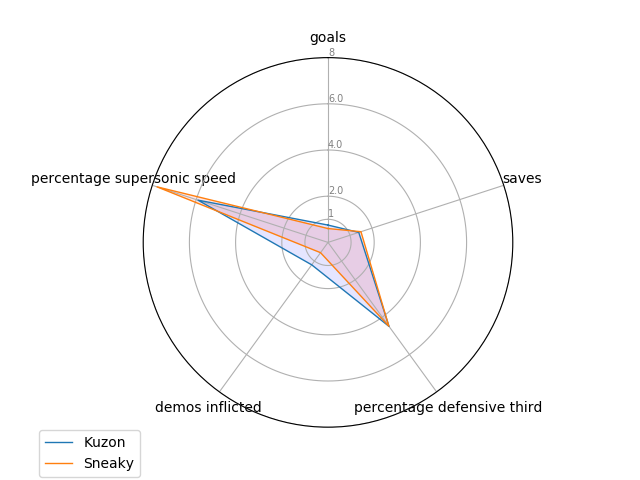
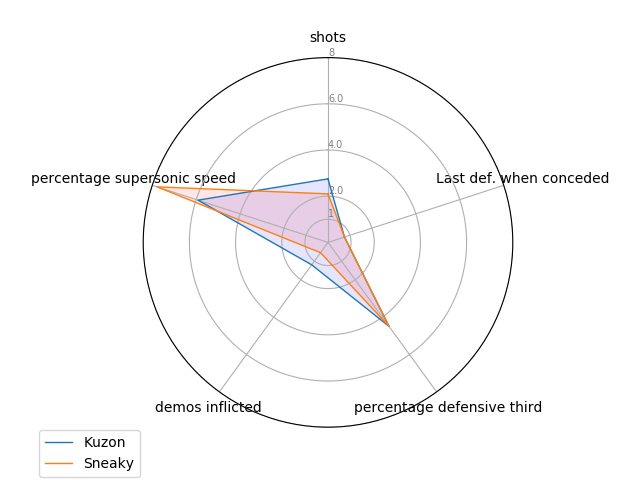
added test from users and finsihed average user

diff --git a/app.py b/app.py
@@ -74,7 +74,7 @@ def create_plot2():
     N = 40
     x = np.linspace(0, 1, N)
     y = np.random.randn(N)
-   
+
     df_win = pd.concat(allmatches_CK_wins)
     sneaky1 = df_win[df_win['player name'] == 'Sneakyb4stard']
     kuzon1 = df_win[df_win['player name'] == 'Kuzon']
@@ -84,13 +84,13 @@ def create_plot2():
     kuzon2 = df_lose[df_lose['player name'] == 'Kuzon']
     #sneaky1 = pd.concat(allmatches_CK_wins['player name'].str.contains('Sneakyb4stard'))
     #sneaky2 = pd.concat(allmatches_CK_losses['player name'].str.contains('Sneakyb4stard'))
-    
+
     df = pd.concat(allmatches_CK)
     #print('testmean' + str(sneaky1['score'].mean()), file=sys.stderr)
     print('sneaky1' + str(sneaky2['goals']), file=sys.stderr)
     #for i in range(0, numberofmatches):
         #print('testoutput' + str(allmatches_CK_wins[i]), file=sys.stderr)
-    
+
     sneaky = df[df['player name'] == 'Sneakyb4stard']
     kuzon = df[df['player name'] == 'Kuzon']
 
@@ -98,25 +98,25 @@ def create_plot2():
     #kuzonlastgame = pd.concat(allmatches_CK[0])
     #sneaky = sneaky1
     #kuzon = sneaky2
-    
+
     #go.Bar(name='SF Zoo', x=animals, y=[20, 14, 23]),
     #go.Bar(name='LA Zoo', x=animals, y=[12, 18, 29])
     #df = pd.DataFrame(allmatches_CK_wins[0])
-    
+
     var1name = 'percentage supersonic speed'
     var2name = 'percentage boost speed'
     var3name = 'percentage slow speed'
 
     if "sneakyandkuzon" in request.form:
         xdata = ['percentage supersonic speed', 'percentage boost speed', 'percentage slow speed']
-        
+
         fig1 = go.Figure(data = [
         go.Bar(
             name = "Sneaky",
             x = [var1name, var2name, var3name],
             #y=[18, 15, 20]
             #y=[int(sneaky['percentage supersonic speed'].values), int(sneaky['percentage boost speed'].values), int(sneaky['percentage slow speed'].values)]
-            y = [int(sneaky[var1name].mean()), int(sneaky[var2name].mean()), int(sneaky[var3name].mean())]      
+            y = [int(sneaky[var1name].mean()), int(sneaky[var2name].mean()), int(sneaky[var3name].mean())]
         ),
         go.Bar(
             name = "Kuzon",
@@ -127,7 +127,7 @@ def create_plot2():
             )
         ])
         fig1.update_layout(barmode='group')
-        graphJSON = json.dumps(fig1, cls=plotly.utils.PlotlyJSONEncoder)   
+        graphJSON = json.dumps(fig1, cls=plotly.utils.PlotlyJSONEncoder)
 
         xdata2 = ['percentage defensive third', 'percentage neutral third', 'percentage offensive third']
         fig2 = go.Figure(data = [
@@ -139,8 +139,8 @@ def create_plot2():
             #y = [int(sneaky['percentage supersonic speed'].values), 15, 20]
             #x=allmatches_CK_wins[0]['player name', 'percentage boost speed'], # assign x as the dataframe column 'x'
             #x = xdata,
-            
-            
+
+
         ),
         go.Bar(
             name = "kuzon",
@@ -150,7 +150,7 @@ def create_plot2():
             )
         ])
         fig2.update_layout(barmode='group')
-        graphJSON2 = json.dumps(fig2, cls=plotly.utils.PlotlyJSONEncoder)   
+        graphJSON2 = json.dumps(fig2, cls=plotly.utils.PlotlyJSONEncoder)
 
         xdata3 = ['percentage on ground', 'percentage low in air', 'percentage high in air']
         fig3 = go.Figure(data = [
@@ -162,8 +162,8 @@ def create_plot2():
             #y = [int(sneaky['percentage supersonic speed'].values), 15, 20]
             #x=allmatches_CK_wins[0]['player name', 'percentage boost speed'], # assign x as the dataframe column 'x'
             #x = xdata,
-            
-            
+
+
         ),
         go.Bar(
             name = "kuzon",
@@ -173,10 +173,10 @@ def create_plot2():
             )
         ])
         fig3.update_layout(barmode='group')
-        graphJSON3 = json.dumps(fig3, cls=plotly.utils.PlotlyJSONEncoder)   
-        
+        graphJSON3 = json.dumps(fig3, cls=plotly.utils.PlotlyJSONEncoder)
+
         return render_template('index_C.html', plot1=graphJSON, plot2=graphJSON2, plot3=graphJSON3)
-        #return graphJSON 
+        #return graphJSON
     elif "sneakywinsandlosses" in request.form:
         xdata = ['percentage supersonic speed', 'percentage boost speed', 'percentage slow speed']
 
@@ -186,7 +186,7 @@ def create_plot2():
             x = [var1name, var2name, var3name],
             #y=[18, 15, 20]
             #y=[int(sneaky['percentage supersonic speed'].values), int(sneaky['percentage boost speed'].values), int(sneaky['percentage slow speed'].values)]
-            y = [int(sneaky1[var1name].mean()), int(sneaky1[var2name].mean()), int(sneaky1[var3name].mean())]      
+            y = [int(sneaky1[var1name].mean()), int(sneaky1[var2name].mean()), int(sneaky1[var3name].mean())]
         ),
         go.Bar(
             name = "Losses",
@@ -197,7 +197,7 @@ def create_plot2():
             )
         ])
         fig1.update_layout(barmode='group')
-        graphJSON = json.dumps(fig1, cls=plotly.utils.PlotlyJSONEncoder)   
+        graphJSON = json.dumps(fig1, cls=plotly.utils.PlotlyJSONEncoder)
 
         #xdata2 = ['percentage defensive third', 'percentage neutral third', 'percentage offensive third']
         var1name = 'percentage defensive third'
@@ -209,7 +209,7 @@ def create_plot2():
             x = [var1name, var2name, var3name],
             #y=[18, 15, 20]
             #y=[int(sneaky['percentage supersonic speed'].values), int(sneaky['percentage boost speed'].values), int(sneaky['percentage slow speed'].values)]
-            y = [int(sneaky1[var1name].mean()), int(sneaky1[var2name].mean()), int(sneaky1[var3name].mean())]      
+            y = [int(sneaky1[var1name].mean()), int(sneaky1[var2name].mean()), int(sneaky1[var3name].mean())]
         ),
         go.Bar(
             name = "Losses",
@@ -220,7 +220,7 @@ def create_plot2():
             )
         ])
         fig2.update_layout(barmode='group')
-        graphJSON2 = json.dumps(fig2, cls=plotly.utils.PlotlyJSONEncoder)   
+        graphJSON2 = json.dumps(fig2, cls=plotly.utils.PlotlyJSONEncoder)
 
         xdata3 = ['percentage on ground', 'percentage low in air', 'percentage high in air']
         var1name = 'percentage on ground'
@@ -232,7 +232,7 @@ def create_plot2():
             x = [var1name, var2name, var3name],
             #y=[18, 15, 20]
             #y=[int(sneaky['percentage supersonic speed'].values), int(sneaky['percentage boost speed'].values), int(sneaky['percentage slow speed'].values)]
-            y = [int(sneaky1[var1name].mean()), int(sneaky1[var2name].mean()), int(sneaky1[var3name].mean())]      
+            y = [int(sneaky1[var1name].mean()), int(sneaky1[var2name].mean()), int(sneaky1[var3name].mean())]
         ),
         go.Bar(
             name = "Losses",
@@ -243,8 +243,8 @@ def create_plot2():
             )
         ])
         fig3.update_layout(barmode='group')
-        graphJSON3 = json.dumps(fig3, cls=plotly.utils.PlotlyJSONEncoder)   
-        
+        graphJSON3 = json.dumps(fig3, cls=plotly.utils.PlotlyJSONEncoder)
+
         return render_template('index_C.html', plot1=graphJSON, plot2=graphJSON2, plot3=graphJSON3)
     elif "kuzonwinsandlosses" in request.form:
         xdata = ['percentage supersonic speed', 'percentage boost speed', 'percentage slow speed']
@@ -255,7 +255,7 @@ def create_plot2():
             x = [var1name, var2name, var3name],
             #y=[18, 15, 20]
             #y=[int(sneaky['percentage supersonic speed'].values), int(sneaky['percentage boost speed'].values), int(sneaky['percentage slow speed'].values)]
-            y = [int(kuzon1[var1name].mean()), int(kuzon1[var2name].mean()), int(kuzon1[var3name].mean())]      
+            y = [int(kuzon1[var1name].mean()), int(kuzon1[var2name].mean()), int(kuzon1[var3name].mean())]
         ),
         go.Bar(
             name = "Losses",
@@ -266,7 +266,7 @@ def create_plot2():
             )
         ])
         fig1.update_layout(barmode='group')
-        graphJSON = json.dumps(fig1, cls=plotly.utils.PlotlyJSONEncoder)   
+        graphJSON = json.dumps(fig1, cls=plotly.utils.PlotlyJSONEncoder)
 
         #xdata2 = ['percentage defensive third', 'percentage neutral third', 'percentage offensive third']
         var1name = 'percentage defensive third'
@@ -278,7 +278,7 @@ def create_plot2():
             x = [var1name, var2name, var3name],
             #y=[18, 15, 20]
             #y=[int(sneaky['percentage supersonic speed'].values), int(sneaky['percentage boost speed'].values), int(sneaky['percentage slow speed'].values)]
-            y = [int(kuzon1[var1name].mean()), int(kuzon1[var2name].mean()), int(kuzon1[var3name].mean())]      
+            y = [int(kuzon1[var1name].mean()), int(kuzon1[var2name].mean()), int(kuzon1[var3name].mean())]
         ),
         go.Bar(
             name = "Losses",
@@ -289,7 +289,7 @@ def create_plot2():
             )
         ])
         fig2.update_layout(barmode='group')
-        graphJSON2 = json.dumps(fig2, cls=plotly.utils.PlotlyJSONEncoder)   
+        graphJSON2 = json.dumps(fig2, cls=plotly.utils.PlotlyJSONEncoder)
 
         xdata3 = ['percentage on ground', 'percentage low in air', 'percentage high in air']
         var1name = 'percentage on ground'
@@ -301,7 +301,7 @@ def create_plot2():
             x = [var1name, var2name, var3name],
             #y=[18, 15, 20]
             #y=[int(sneaky['percentage supersonic speed'].values), int(sneaky['percentage boost speed'].values), int(sneaky['percentage slow speed'].values)]
-            y = [int(kuzon1[var1name].mean()), int(kuzon1[var2name].mean()), int(kuzon1[var3name].mean())]      
+            y = [int(kuzon1[var1name].mean()), int(kuzon1[var2name].mean()), int(kuzon1[var3name].mean())]
         ),
         go.Bar(
             name = "Losses",
@@ -312,21 +312,21 @@ def create_plot2():
             )
         ])
         fig3.update_layout(barmode='group')
-        graphJSON3 = json.dumps(fig3, cls=plotly.utils.PlotlyJSONEncoder)   
-        
-        return render_template('index_C.html', plot1=graphJSON, plot2=graphJSON2, plot3=graphJSON3)    
+        graphJSON3 = json.dumps(fig3, cls=plotly.utils.PlotlyJSONEncoder)
+
+        return render_template('index_C.html', plot1=graphJSON, plot2=graphJSON2, plot3=graphJSON3)
     elif "sneakylastgame" in request.form:
         sneaky1 = allmatches_CK[0]
         sneaky1 = sneaky1[sneaky1['player name'] == 'Sneakyb4stard']
         xdata = ['percentage supersonic speed', 'percentage boost speed', 'percentage slow speed']
-        
+
         fig1 = go.Figure(data = [
         go.Bar(
             name = "Average stats",
             x = [var1name, var2name, var3name],
             #y=[18, 15, 20]
             #y=[int(sneaky['percentage supersonic speed'].values), int(sneaky['percentage boost speed'].values), int(sneaky['percentage slow speed'].values)]
-            y = [int(sneaky[var1name].mean()), int(sneaky[var2name].mean()), int(sneaky[var3name].mean())]      
+            y = [int(sneaky[var1name].mean()), int(sneaky[var2name].mean()), int(sneaky[var3name].mean())]
         ),
         go.Bar(
             name = "Last game",
@@ -337,7 +337,7 @@ def create_plot2():
             )
         ])
         fig1.update_layout(barmode='group')
-        graphJSON = json.dumps(fig1, cls=plotly.utils.PlotlyJSONEncoder)   
+        graphJSON = json.dumps(fig1, cls=plotly.utils.PlotlyJSONEncoder)
 
         xdata2 = ['percentage defensive third', 'percentage neutral third', 'percentage offensive third']
         var1name = 'percentage defensive third'
@@ -349,9 +349,9 @@ def create_plot2():
             x = xdata2,
             #y=[18, 15, 20]
             y=[int(sneaky['percentage defensive third'].mean()), int(sneaky['percentage neutral third'].mean()), int(sneaky['percentage offensive third'].mean())]
-            
-            
-            
+
+
+
         ),
         go.Bar(
             name = "Last game",
@@ -361,7 +361,7 @@ def create_plot2():
             )
         ])
         fig2.update_layout(barmode='group')
-        graphJSON2 = json.dumps(fig2, cls=plotly.utils.PlotlyJSONEncoder)   
+        graphJSON2 = json.dumps(fig2, cls=plotly.utils.PlotlyJSONEncoder)
 
         xdata3 = ['percentage on ground', 'percentage low in air', 'percentage high in air']
         var1name = 'percentage on ground'
@@ -376,8 +376,8 @@ def create_plot2():
             #y = [int(sneaky['percentage supersonic speed'].values), 15, 20]
             #x=allmatches_CK_wins[0]['player name', 'percentage boost speed'], # assign x as the dataframe column 'x'
             #x = xdata,
-            
-            
+
+
         ),
         go.Bar(
             name = "Last game",
@@ -387,21 +387,21 @@ def create_plot2():
             )
         ])
         fig3.update_layout(barmode='group')
-        graphJSON3 = json.dumps(fig3, cls=plotly.utils.PlotlyJSONEncoder)   
-        
+        graphJSON3 = json.dumps(fig3, cls=plotly.utils.PlotlyJSONEncoder)
+
         return render_template('index_C.html', plot1=graphJSON, plot2=graphJSON2, plot3=graphJSON3)
     elif "kuzonlastgame" in request.form:
         kuzon1 = allmatches_CK[0]
         kuzon1 = kuzon1[kuzon1['player name'] == 'Kuzon']
         xdata = ['percentage supersonic speed', 'percentage boost speed', 'percentage slow speed']
-        
+
         fig1 = go.Figure(data = [
         go.Bar(
             name = "Average stats",
             x = [var1name, var2name, var3name],
             #y=[18, 15, 20]
             #y=[int(sneaky['percentage supersonic speed'].values), int(sneaky['percentage boost speed'].values), int(sneaky['percentage slow speed'].values)]
-            y = [int(kuzon[var1name].mean()), int(kuzon[var2name].mean()), int(kuzon[var3name].mean())]      
+            y = [int(kuzon[var1name].mean()), int(kuzon[var2name].mean()), int(kuzon[var3name].mean())]
         ),
         go.Bar(
             name = "Last game",
@@ -412,7 +412,7 @@ def create_plot2():
             )
         ])
         fig1.update_layout(barmode='group')
-        graphJSON = json.dumps(fig1, cls=plotly.utils.PlotlyJSONEncoder)   
+        graphJSON = json.dumps(fig1, cls=plotly.utils.PlotlyJSONEncoder)
 
         xdata2 = ['percentage defensive third', 'percentage neutral third', 'percentage offensive third']
         var1name = 'percentage defensive third'
@@ -424,9 +424,9 @@ def create_plot2():
             x = xdata2,
             #y=[18, 15, 20]
             y=[int(kuzon['percentage defensive third'].mean()), int(kuzon['percentage neutral third'].mean()), int(kuzon['percentage offensive third'].mean())]
-            
-            
-            
+
+
+
         ),
         go.Bar(
             name = "Last game",
@@ -436,7 +436,7 @@ def create_plot2():
             )
         ])
         fig2.update_layout(barmode='group')
-        graphJSON2 = json.dumps(fig2, cls=plotly.utils.PlotlyJSONEncoder)   
+        graphJSON2 = json.dumps(fig2, cls=plotly.utils.PlotlyJSONEncoder)
 
         xdata3 = ['percentage on ground', 'percentage low in air', 'percentage high in air']
         var1name = 'percentage on ground'
@@ -451,8 +451,8 @@ def create_plot2():
             #y = [int(sneaky['percentage supersonic speed'].values), 15, 20]
             #x=allmatches_CK_wins[0]['player name', 'percentage boost speed'], # assign x as the dataframe column 'x'
             #x = xdata,
-            
-            
+
+
         ),
         go.Bar(
             name = "Last game",
@@ -462,8 +462,8 @@ def create_plot2():
             )
         ])
         fig3.update_layout(barmode='group')
-        graphJSON3 = json.dumps(fig3, cls=plotly.utils.PlotlyJSONEncoder)   
-        
+        graphJSON3 = json.dumps(fig3, cls=plotly.utils.PlotlyJSONEncoder)
+
         return render_template('index_C.html', plot1=graphJSON, plot2=graphJSON2, plot3=graphJSON3)
     else:
         return render_template('bar_default.html')
@@ -547,18 +547,9 @@ def create_star_plot():
 
     #print(kuzonDF_mean, file=sys.stderr)
     newDF = [kuzonDF_mean, sneakyDF_mean]
-    print('kuzmeans' + '\n' + str(kuzonDF_mean), file=sys.stderr)
-    print('snakmeans' + '\n' + str(sneakyDF_mean), file=sys.stderr)
-    print('NEWDF' + '\n' + str(newDF), file=sys.stderr)
-
-
-    df_kuzon = df_csv[df_csv['player name'].str.contains('Kuzon')]
-    df_sneaky = df_csv[df_csv['player name'].str.contains('Sneakyb4stard')]
-    frames = [df_kuzon, df_sneaky]
-    print('dfkuz' + '\n' + str(df_kuzon), file=sys.stderr)
     df_csv_new = pd.concat(newDF, axis=1)
     df_csv_new = df_csv_new.T
-    #df_csv_new2 = df_csv_new2.reset_index()
+    df_csv_new = df_csv_new.reset_index()
     print('NYA' + '\n' +  str(df_csv_new), file=sys.stderr)
 
     if var5 == 'avg speed':
@@ -578,8 +569,9 @@ def create_star_plot():
     var4: df_csv_new[var4],
     var5: df_csv_new[var5]
     })
-    #TAKEN FROM https://python-graph-gallery.com/391-radar-chart-with-several-individuals/
+    #Base taken from https://python-graph-gallery.com/391-radar-chart-with-several-individuals/
     #Since matplotlib didnt have one implemented
+    #have made several changes for our project
     # ------- PART 1: Create background
     # number of variable
 

diff --git a/README.md b/README.md
@@ -1,2 +1,5 @@
 # InfoVis
 Infovis projekt med Christian
+
+#TODO
+Ladda ner proffs average och jämnföra med t.ex. euklidisk avstånd för hitta vem som är mest lik vem.
